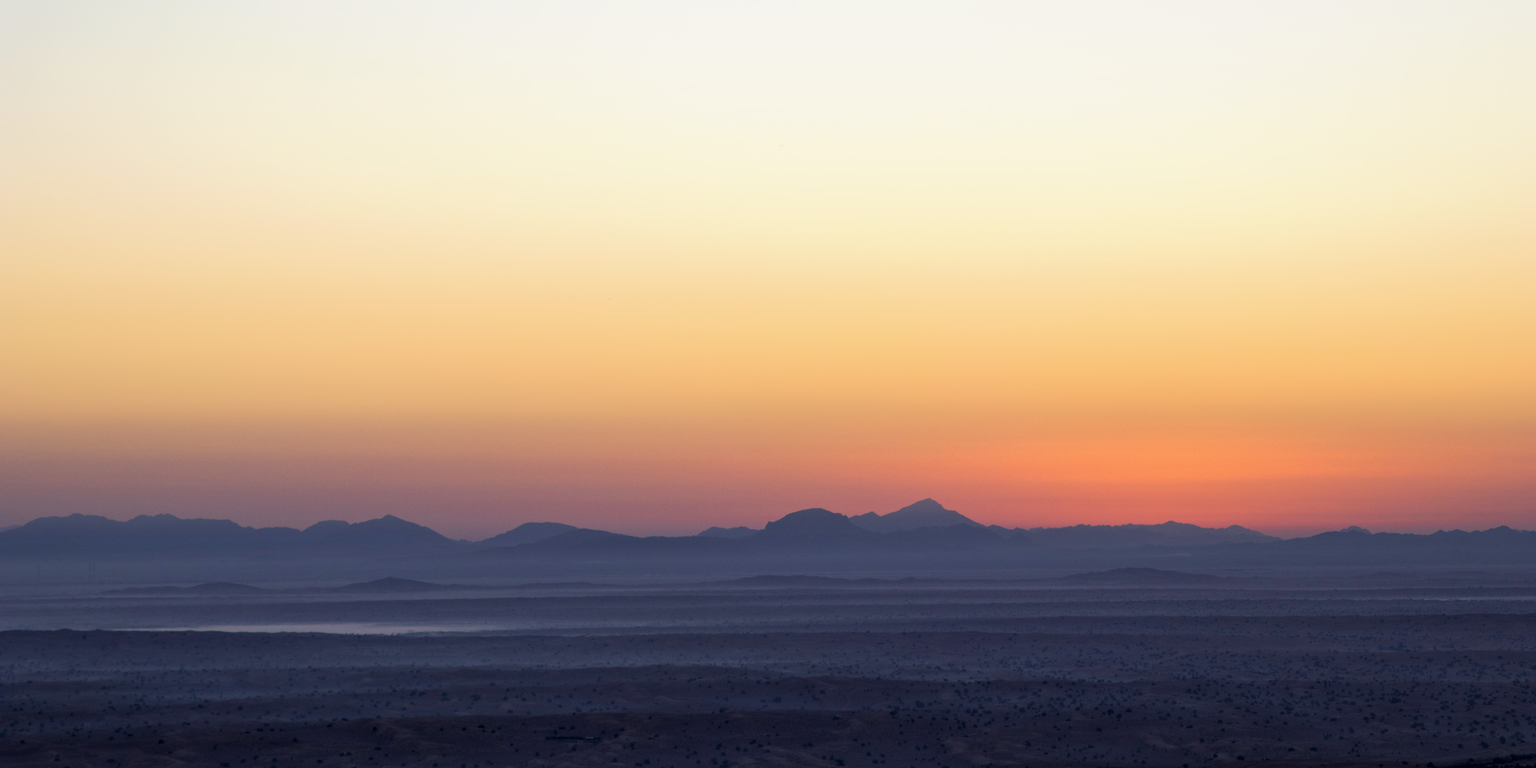
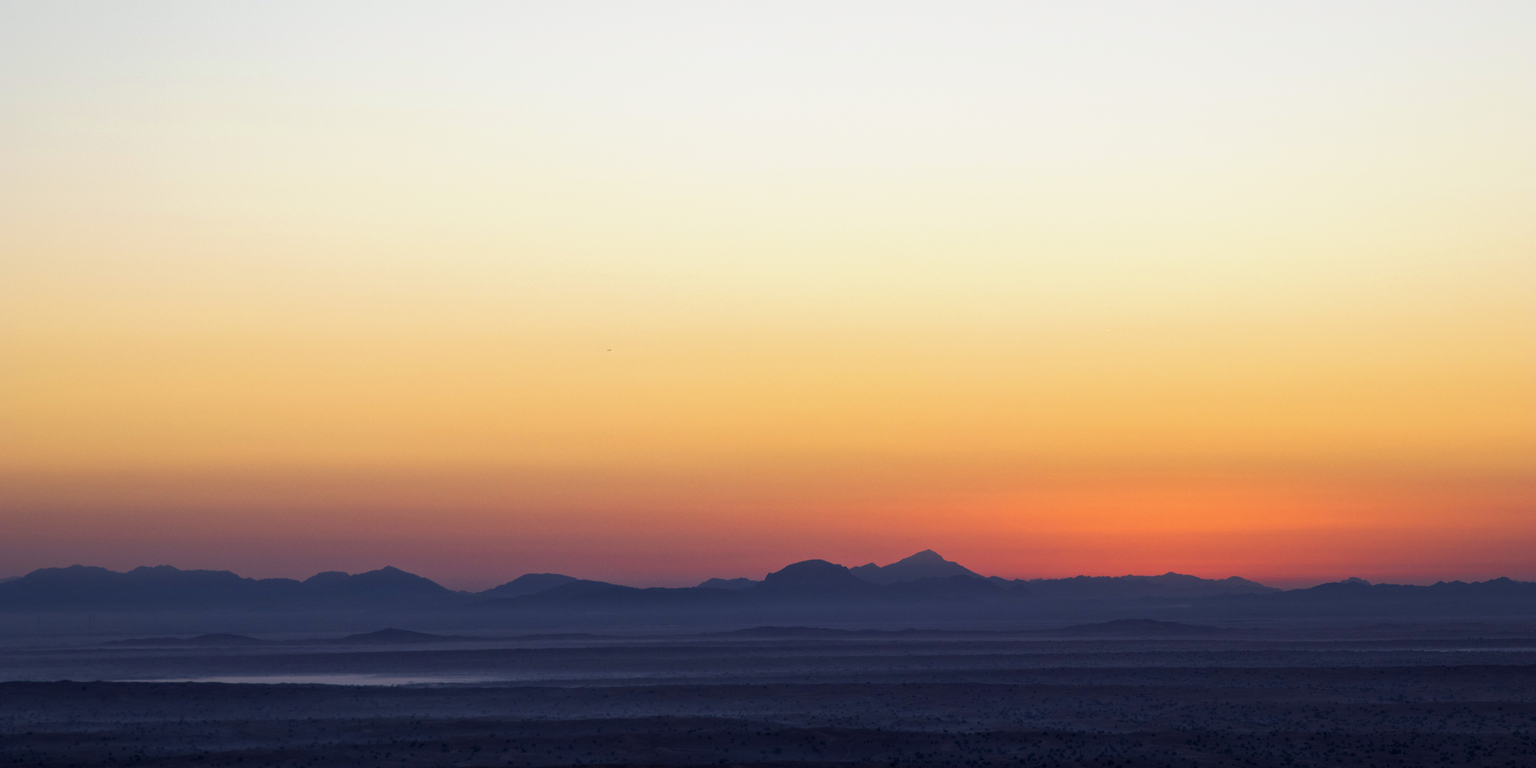
Add 2 new works; re-edit Massif from the Water and Last Light

Changed region(s): [[0.0, 0.5312, 1.0, 0.9062], [0.375, 0.9062, 0.4062, 0.9375], [0.125, 0.9688, 0.1562, 1.0]]

diff --git a/src/content/image-sizes.ts b/src/content/image-sizes.ts
@@ -29,7 +29,7 @@ export const imageSizes: Record<string, { width: number; height: number }> = {
   "island-paradise": { width: 3840, height: 2560 },
   "lake-and-summit": { width: 2560, height: 3840 },
   "liquid-jade": { width: 3840, height: 2348 },
-  "massif-from-the-water": { width: 3840, height: 2560 },
+  "massif-from-the-water": { width: 3840, height: 2304 },
   "mist-veil": { width: 3840, height: 1641 },
   "monarch-of-ice": { width: 3840, height: 1920 },
   "pacific-edge": { width: 5760, height: 2357 },
@@ -140,4 +140,6 @@ export const imageSizes: Record<string, { width: number; height: number }> = {
   "cloud-shadows": { width: 3840, height: 2561 },
   "headwaters": { width: 3840, height: 2561 },
   "painted-butte": { width: 3840, height: 2562 },
+  "mirror-dusk": { width: 3840, height: 2561 },
+  "autumn-mirror": { width: 3840, height: 2382 },
 };

diff --git a/src/content/catalog.ts b/src/content/catalog.ts
@@ -1334,6 +1334,24 @@ export const works: Work[] = [
     editionSize: 50,
     isNew: true,
   },
+  {
+    slug: "mirror-dusk",
+    title: "Mirror Dusk",
+    collection: "water",
+    description:
+      "Fiery clouds drift above a dark mountain notch and repeat themselves in the perfectly still water of a lake at dusk.",
+    editionSize: 50,
+    isNew: true,
+  },
+  {
+    slug: "autumn-mirror",
+    title: "Autumn Mirror",
+    collection: "mountain-forest",
+    description:
+      "A hillside of golden aspens and a sky of drifting clouds lie doubled in a quiet beaver pond.",
+    editionSize: 50,
+    isNew: true,
+  },
 ];
 
 export function getImage(slug: string) {

diff --git a/src/content/master-sizes.ts b/src/content/master-sizes.ts
@@ -141,4 +141,6 @@ export const masterLongEdge: Record<string, number> = {
   "cloud-shadows": 7952,
   "headwaters": 7952,
   "painted-butte": 5168,
+  "mirror-dusk": 7952,
+  "autumn-mirror": 7952,
 };
